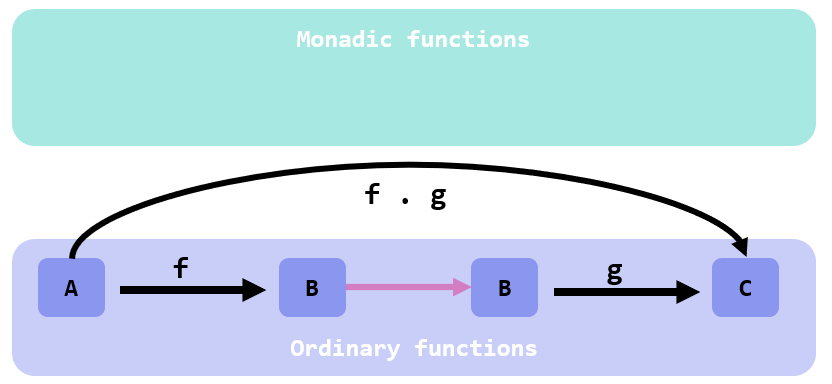
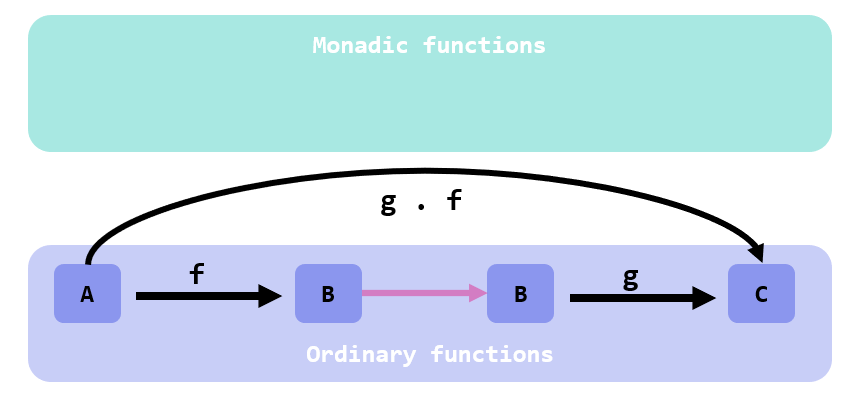
Chapter 7: a different perspective on bind

diff --git a/_posts/monads-for-the-rest-of-us/2023-08-01-monads-for-the-rest-of-us-7.md b/_posts/monads-for-the-rest-of-us/2023-08-01-monads-for-the-rest-of-us-7.md
@@ -9,7 +9,9 @@ include_in_index: false
 ---
 ** In which you realize that Functors are not containers **
 
-If you want to understand Functors, it help to develop a little different intuition on Monads. And in order to do so, it helps to go back to the roots. Don't worry, it will take only few minutes.
+# Bind as a combinator
+If you want to understand Functors, it help to develop a little different intuition on Monads. And in order to do so, it helps to go back to the roots.  
+Don't worry, it will take only few seconds.
 
 Imagine you have 2 ordinary functions:
 
@@ -20,10 +22,89 @@ g :: B -> C
 
 ![2 type-compatible ordinary functions](static/img/nond-for-the-rest-of-us/ordinary-functions-2-functions.png)
 
-You know that they are type compatible: the output of `f` has the same type of the input of `g`. So you can both:
+You know that they are type-compatible: the output of `f` has the same type of the input of `g`. So you can both:
 
 * *apply* `f` to the output of `g`
-* *compose* `f` and `g` and build a new function `f . g`
+* *compose* `f` and `g` and build a new function `g . f`
 
-![2 type-compatible ordinary functions](static/img/nond-for-the-rest-of-us/ordinary-functions-2-functions-composed.png)
+![2 type-compatible ordinary functions composed](static/img/nond-for-the-rest-of-us/ordinary-functions-2-functions-composed.png)
 
+Ok, we are done with the roots. I promised it would be fast.
+
+Let's see what happens with monadic functions. Suppose you have:
+
+```haskell
+f :: A -> Monad<B>
+g :: B -> Monad<C>
+```
+
+![2 monadic functions](static/img/nond-for-the-rest-of-us/monadic-functions-2-functions.png)
+
+They are not type-compatible: the output of `f` has a different type than the type requested by `g`. You cannot just feed `g` with the output of `f`:
+
+![2 monadic functions cannot be directly bound](static/img/nond-for-the-rest-of-us/monadic-functions-2-functions-cannot-be-bound.png)
+
+Your problem is: you would like to feed `f` with a value of `A`, but you don't have it; instead, you have a value of `Monad<A>`.  
+
+You also know that the solution is the function `bind`.
+
+```csharp
+Monad<B> Bind<A, B>(Func<A, Monad<B>> f, Monad<A> a) => ...
+```
+
+that is, a function with the signature:
+
+```haskell
+//             f            input   =>  output
+bind :: (A -> Monad<B>) -> Monad<A> -> Monad<B>
+```
+
+Here's the little new intuition you have to develop: instead of seeing to `bind` as the function to feed `f` with `input` to get an `output`, that is, as the monadic version of `Apply`, imagine surronding the last 2 elements in parenthesis:
+
+
+```haskell
+//             f        => (  input   -> output   )
+bind :: (A -> Monad<B>) -> ( Monad<A> -> Monad<B> )
+```
+
+That is: imagine `bind` as that function that, given a function:
+
+```haskell
+f :: A -> Monad<B>
+```
+
+transforms it so its type signature becomes:
+
+```haskell
+f' :: Monad<A> -> Monad<B>
+```
+
+You like `f'` a lot! Remember your problem?
+
+| You would like to feed `f` with a value of `A`
+| but you don't have it; 
+| instead, you have a value of `Monad<A>`.
+
+That's perfect: the function `bind` gave you back wants a `Monad<A>` as input. `bind` solved your problem.
+
+Graphically:
+
+you start from a monadic function `f`:
+
+![a monadic function f from A to Monad<B>](static/img/nond-for-the-rest-of-us/monadic-functions-before-bind.png)
+
+and this is what you get applying `bind`:
+
+![a monadic function f from Monad<A> to Monad<B>](static/img/nond-for-the-rest-of-us/monadic-functions-after-bind.png)
+
+Here's the gist. `bind` transforms a series of not type-compatible monadic functions:
+
+![a monadic function f from Monad<A> to Monad<B>](static/img/nond-for-the-rest-of-us/monadic-functions-series-of-functions.png)
+
+lifting their input types so that they can be *bound* and composed together:
+
+![a monadic function f from Monad<A> to Monad<B>](static/img/nond-for-the-rest-of-us/monadic-functions-series-of-bound-functions.png)
+
+In other words. There are benefits in working in the elevated world of the monadic functions. `bind` takes those function that are still with one of their legs in the ordinary world, and elevate them.
+
+# Functors
